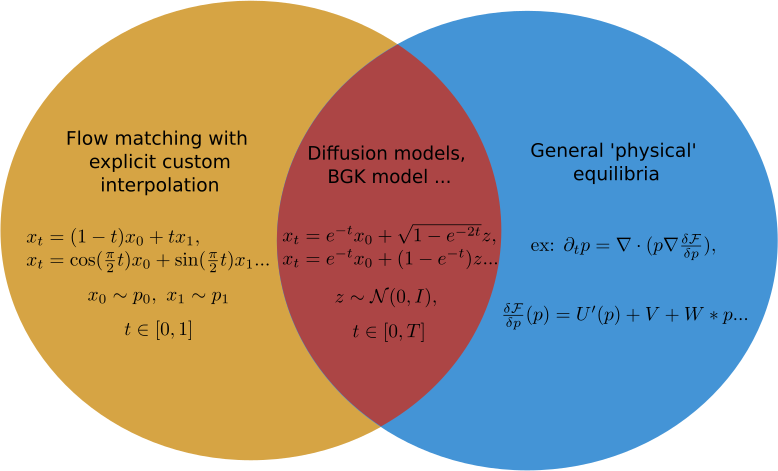
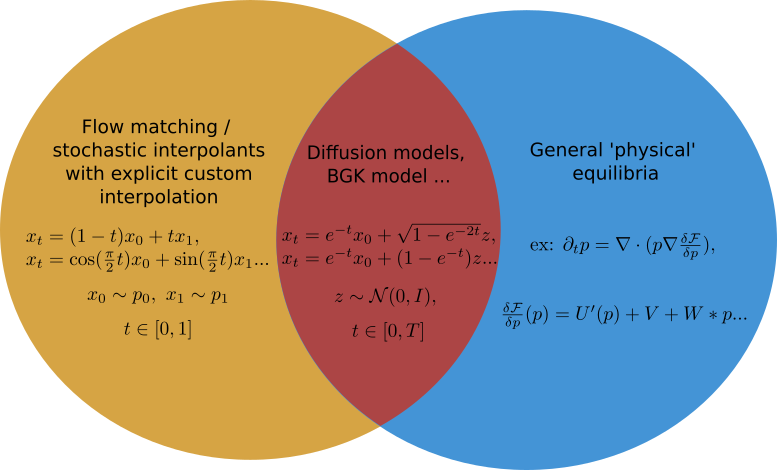
Update diffusion post

diff --git a/_posts/2024-03-25-diffusion-models-from-an-equilibrium-perspective.md b/_posts/2024-03-25-diffusion-models-from-an-equilibrium-perspective.md
@@ -44,7 +44,7 @@ In physics, the Fokker-Planck equation provides insight into the movements of ti
 
 The Fokker-Planck equation under its more general form can be written
 
-$$\partial_t p(x,t) = \nabla \cdot (g(x) p(x,t))+ h(x) \Delta p (x,t),  \tag{1}$$
+$$\partial_t p(x,t) = \nabla \cdot (g(x, t) p(x,t))+ h(x, t) \Delta p (x,t),  \tag{1}$$
 
  where $x \in \mathbb{R}^d$, $g$ is the drift term and $h$ a function modeling the diffusion coefficient. For machine learning applications we usually operate in very high dimension hence computing the full distribution $p$ at once is not tractable. One of the crucial property of equation (1)<!--ref--> is the possibility to adopt a particles based view 
 
@@ -54,7 +54,7 @@ $$
 
 This formulation allows for the simulation of independent particles, as described in (1)<!--ref-->, without the need to consider the entire density at once. This approach offers a significant advantage, particularly for machine learning applications, due to its effectiveness in high-dimensional spaces. 
 
-From now on, we will focus on a specific form of the Fokker-Planck equation, which we'll simply refer to as the Fokker-Planck equation. That is equation (1)<!--ref--> with $g(x)=x$ and $h(x)=1$
+From now on, we will focus on a specific form of the Fokker-Planck equation, which we'll simply refer to as the Fokker-Planck equation. That is equation (1)<!--ref--> with $g(x, t)=x$ and $h(x, t)=1$
 
 $$\partial_t p(x,t) = \nabla \cdot (x p(x,t))+ \Delta p (x,t). \tag{3}$$
 
@@ -101,7 +101,7 @@ where $\lambda\geq 0$ is a positive constant. Assuming that $\nabla \log p$ is k
 
 $$s_\theta(x,t) \approx \nabla \log p(x,t).$$
 
-The neural network $s_{\theta}$ is commonly referred to as the score function. For image data it is frequently chosen to be a U-net [[10](#ref10)] but we won't delve here into the specifics of this architecture. Once $s_{\theta}$ is trained we can use equation (2)<!--ref--> with $g(x) = -x-(1+\lambda)s_{\theta}$ and $h(x)= \lambda$ to samples the particles from $p_{eq}$ (i.e. denoise the data)
+The neural network $s_{\theta}$ is commonly referred to as the score function. For image data it is frequently chosen to be a U-net [[10](#ref10)] but we won't go into the specifics details of this architecture. Once $s_{\theta}$ is trained we can use equation (2)<!--ref--> with $g(x,t) = -x-(1+\lambda)s_{\theta}(x,t)$ and $h(x)= \lambda$ to samples the particles from $p_{eq}$ (i.e. denoise the data)
 
 $$
 dx = (x + (1+\lambda) s_{\theta}(x,t))dt + \sqrt{2 \lambda dt} z, \quad z \sim \mathcal{N}(0, I).  \tag{8} 
@@ -120,16 +120,16 @@ Note that when $\lambda =0$ the equation (8)<!--ref--> is a simple ordinary diff
 
 So, in essence, diffusion models focus on learning the score function $s_\theta(x,t) \approx \nabla \log p(x,t)$ of a Fokker-Planck equation. However for practical machine learning applications computing directly $\nabla \log p$ is intractable. The trick [[9](#ref9)] is to use the conditional log probability $\nabla \log p( \cdot \vert x_0)$ where $x_0$ are data points of the initial probability distribution $p_0$. 
 
-**Proposition 1:** The minimum of
+**Proposition 1:** The argmin of
 
 $$
-\min_\theta \int \|\nabla \log p (x, t) - s_{\theta}(x,t)\|^{2} p(x,t) dxdt, \tag{9}
+\argmin_\theta \int \|\nabla \log p (x, t) - s_{\theta}(x,t)\|^{2} p(x,t) dxdt, \tag{9}
 $$
 
-is the same as 
+is the same as the argmin of
 
 $$
-\min_{\theta} E_{x_{0}\sim p_{0}}\Big(\int \|\nabla \log p (x,t \vert  x_{0}) - s_{\theta}(x,t)\|^{2}p (x,t \vert  x_{0})dx dt\Big) \tag{10}
+\argmin_{\theta} E_{x_{0}\sim p_{0}}\Big(\int \|\nabla \log p (x,t \vert  x_{0}) - s_{\theta}(x,t)\|^{2}p (x,t \vert  x_{0})dx dt\Big) \tag{10}
 $$
 
 <details>
@@ -138,24 +138,24 @@ $$
 Expanding the square norm in (9)<!--ref--> and dropping the term which does not depend on $\theta$ one gets
 
 $$
-        \min_{\theta} \int \big(-2\nabla \log f(t, \mathbf{x}) \cdot \mathbf{s}_{\theta}(t, \mathbf{x}) +\|\mathbf{s}_{\theta}(t, \mathbf{x})\|^2 \big) f(t, \mathbf{x}) d \mathbf{x}.
+         \int \big(-2\nabla \log p(t, x) \cdot s_{\theta}(t, x) +\|s_{\theta}(t, x)\|^2 \big) p(t, x) d x.
 $$
 
 In the same way expanding the term (10)<!--ref--> in the same way and dropping the term which does not depend on $\theta$ one gets
 
 $$
-        \min_{\theta} \mathbb{E}_{\mathbf{x}_{0} \sim f_0}
+         \mathbb{E}_{x_{0} \sim p_0}
         \Big(\int_{0}^T \int_{\mathbb{R}^d}
-        \big(-2\nabla_{x} \log f(t, \mathbf{x} \vert  \mathbf{x}_{0}) \cdot \mathbf{s}_{\theta}(t, \mathbf{x}) + \| \mathbf{s}_{\theta}(t, \mathbf{x}) \|^2\big) f(t, \mathbf{x} \vert  \mathbf{x}_{0})  d \mathbf{x} d t\Big).
+        \big(-2\nabla_{x} \log p(t, x \vert  x_{0}) \cdot s_{\theta}(t, x) + \| s_{\theta}(t, x) \|^2\big) p(t, x \vert  x_{0})  d x d t\Big).
 $$
 
-Then we use the equalities $f\nabla \log f = \nabla f$ and $\mathbb{E}_{\mathbf{w}_{0} \sim (f_0, g_0)}(f(t, \mathbf{x} \vert  \mathbf{x}_{0})) = f(t, \mathbf{x})$ to obtain
+Then we use the equalities $p\nabla \log p = \nabla p$ and $\mathbb{E}_{x_{0} \sim p_{0}}\big(p(t, x \vert  x_{0})\big) = p(t, x)$ to obtain
 
 $$
-        \min_{\theta} \int \big(-2\nabla \log f(t, \mathbf{x}) \cdot \mathbf{s}_{\theta}(t, \mathbf{x}) +\|\mathbf{s}_{\theta}(t, \mathbf{x})\|^2 \big) f(t, \mathbf{x}) d \mathbf{x}.
+         \int \big(-2\nabla \log p(t, x) \cdot s_{\theta}(t, x) +\|s_{\theta}(t, x)\|^2 \big) p(t, x) d x.
 $$
 
-We recover the expression which was obtained with the original formulation and conclude that the two minimums coincide. &#x25A0;
+We recover the expression which was obtained with the original formulation and conclude that the two argmin coincide. &#x25A0;
 
 </details>
 
@@ -187,12 +187,12 @@ By combining Proposition 1 and equation (11)<!--ref-->-(12)<!--ref--> it is ther
 In practice the loss is written as 
 
 $$
-\mathcal{L} := \min_{\theta} \mathbb{E}_{x_{0} \sim p_{0}} \Big(\int \frac{\lambda(t)}{\sigma_{t}^2} \|\frac{\mu_{t, x_{0}} - x}{\sigma_{t}} - \sigma_{t} s_{\theta}(x,t) \|^{2}  p(x,t \vert  x_{0})dt dx \Big), \tag{13}
+\mathcal{L} := \min_{\theta} \mathbb{E}_{x_{0} \sim p_{0}} \Big(\int \frac{\alpha(t)}{\sigma_{t}^2} \|\frac{\mu_{t, x_{0}} - x}{\sigma_{t}} - \sigma_{t} s_{\theta}(x,t) \|^{2}  p(x,t \vert  x_{0})dt dx \Big), \tag{13}
 $$
 
-where $p(\cdot \vert  x_{0})$ is the probability distribution (11)<!--ref-->, $\lambda(t)$ is a time dependent function and often for diffusion models one takes 
+where $p(\cdot \vert  x_{0})$ is the probability distribution (11)<!--ref-->, $\alpha(t)$ is a time dependent function and often for diffusion models one takes 
 
-$$\lambda(t) = \sigma_{t}^2, \tag{14}$$
+$$\alpha(t) = \sigma_{t}^2, \tag{14}$$
 
 which is a natural choice given it allows to remove the singularity in the loss (13)<!--ref-->. By using the form of $p(\cdot \vert x_{0})$ given in (11)<!--ref--> and doing the change of variable $z=(x-\mu_{t, x_{0}})/\sigma_{t}$ in (13)<!--ref--> one finally gets
 
@@ -241,7 +241,7 @@ $$
 
 It might not be clear at first why this change of variable is needed and many presentations remain elusive about it. Here are some of the reasons which might justify the introduction of the new time dependence:
 
-**- Balance for the temporal weight $\lambda(t) = \sigma_{t}^{2}$ in the loss function:** In (13)<!--ref--> the loss function $\mathcal{L}$ is modified by selecting $\lambda(t) = \sigma_{t}^2$ as the weighting function, altering its time dependence. Given that $\sigma(0) = 0$ and $\sigma_{t} \rightarrow 1$ when $t \rightarrow +\infty$, this results in a diminished emphasis on earlier times compared to the baseline choice of $\lambda = 1$. The variable transformation introduced in (15)<!--ref--> might compensates by reallocating some of the weight back to the initial times see Figure 5.
+**- Balance for the temporal weight $\alpha(t) = \sigma_{t}^{2}$ in the loss function:** In (13)<!--ref--> the loss function $\mathcal{L}$ is modified by selecting $\alpha(t) = \sigma_{t}^2$ as the weighting function, altering its time dependence. Given that $\sigma(0) = 0$ and $\sigma_{t} \rightarrow 1$ when $t \rightarrow +\infty$, this results in a diminished emphasis on earlier times compared to the baseline choice of $\alpha = 1$. The variable transformation introduced in (15)<!--ref--> might compensates by reallocating some of the weight back to the initial times see Figure 5.
 
 **- Dealing with the exponential convergence toward equilibrium:** As shown in equation (4)<!--ref--> the function $p(\cdot,t)$ converges exponentially fast toward the equilibrium 
 
@@ -292,7 +292,7 @@ We have seen that the fundamental property behind diffusion models is the conver
 
 In physics, the Fokker-Planck equation, as introduced in equation (3)<!--ref-->, is interpreted over the velocity space for a system characterized by a density distribution homogeneous in space. For the sake of simplicity, our earlier discussions employed the notation $x$ to refer to the unknown velocity variable. As we transition to examining the non-homogeneous case we will now use the notation $x$ for space and $v$ for velocities. The non-homogeneous Fokker-Planck equation for a density function $p(x,v,t)$ can be written under the form
 
-$$\partial_t p + \mathbf{v} \nabla_{\mathbf{x}} p - \mathbf{x} \nabla_{\mathbf{v}} p = \nabla_{\mathbf{v}} \cdot (\mathbf{v}p + \nabla_{\mathbf{v}} p), \tag{16}$$
+$$\partial_t p + v \nabla_{\mathbf{x}} p - x \nabla_{v} p = \nabla_{v} \cdot (vp + \nabla_{v} p), \tag{16}$$
 
 where $x, v \in \mathbb{R}^d$ are the space and velocity variables respectively. Using this equation for generative modeling is the approach followed in [[13](#ref13)] (they also introduce some additional parameters which does not change the general behavior of the probability density function compare to (16)<!--ref-->). The derivation of the generative method in the non-homogeneous case is close to the presentation given above for diffusion models see [[13](#ref13)] for details. 
 
@@ -380,7 +380,16 @@ $$
 x_{t}(x_{0}, x_{1}) =  e^{-t}x_{0} + \sqrt{1-e^{-2t}} z, \qquad z \sim p_{1}:=\mathcal{N}(0, I).
 $$
 
-Using the above interpolation for flow matching it is possible to recover the diffusion approach. The flow matching framework however is more general in the sense that other interpolations such as the one presented in (19)<!--ref--> can be used. It also enables the consideration of other physical systems for generative purpose. As an example consider the BGK model [[25](#ref25)] which is one of the simplest physical model to describe an exponential convergence of a probability distribution $p$ toward an equilibrium $p_{eq}$
+Using the above interpolation for flow matching it is possible to recover the density of the diffusion approach. The flow matching framework however is more general in the sense that other interpolations such as the one presented in (19)<!--ref--> can be used connecting arbitrary densities (with the possibility that none of them is Gaussian) see Figure 9. 
+
+<div style="text-align: center;">
+<img src="../assets/images/diffusion/stochastic_interpolant.gif" alt="diagram" width="50%" />
+</div>
+
+**Figure 9:** *Interpolation between two densities using the flow matching / stochastic interpolant framework.*
+
+
+It also enables the consideration of other physical systems for generative purpose. As an example consider the BGK model [[25](#ref25)] which is one of the simplest physical model to describe an exponential convergence of a probability distribution $p$ toward an equilibrium $p_{eq}$
 
 $$
 \partial_{t} p(x,t) = p_{eq}(x) - p(x,t).\tag{20}
@@ -394,13 +403,13 @@ $$
 
 can therefore be used to learn a flow between the densities $p$ and $p_{eq}$ following the BGK density. Finally note that the non-homogenous case considered before can also be written under this formalism.
 
-Even if the flow matching approach is more general than diffusion models not all equilibrium methods can be recast into this framework see Figure 9. For the gradient flows method describe in the previous section for example, it is not possible, in general, to give an explicit interpolating path between the two densities.
+Even if the flow matching approach is more general than diffusion models not all equilibrium methods can be recast into this framework see Figure 10. For the gradient flows method described in the previous section for example, it is not possible, in general, to give an explicit interpolating path between the two densities.
 
 <div style="text-align: center;">
 <img src="/assets/images/diffusion/diagram.png" alt="diagram" width="80%" />
 </div>
 
-**Figure 9:** *Diagram of flow matching and equilibrium methods for generative modeling purpose.*
+**Figure 10:** *Diagram of flow matching and equilibrium methods for generative modeling purpose.*
 
 
 ### Extension to discrete datasets
@@ -428,7 +437,7 @@ where $\beta_{t} \in [0,1]$ is a time dependent scalar. This choice ensures the 
     <img src="/assets/images/diffusion/discrete_euler.gif" style="width: 50%;" />
 </div>
 
-**Figure 10:** *Discrete diffusion model applied on a discrete toy dataset. Left: convergence of the initial distribution toward the uniform equilibrium. Right: Sampling procedure.*
+**Figure 11:** *Discrete diffusion model applied on a discrete toy dataset. Left: convergence of the initial distribution toward the uniform equilibrium. Right: Sampling procedure.*
 
 ## Citation & Code
 
